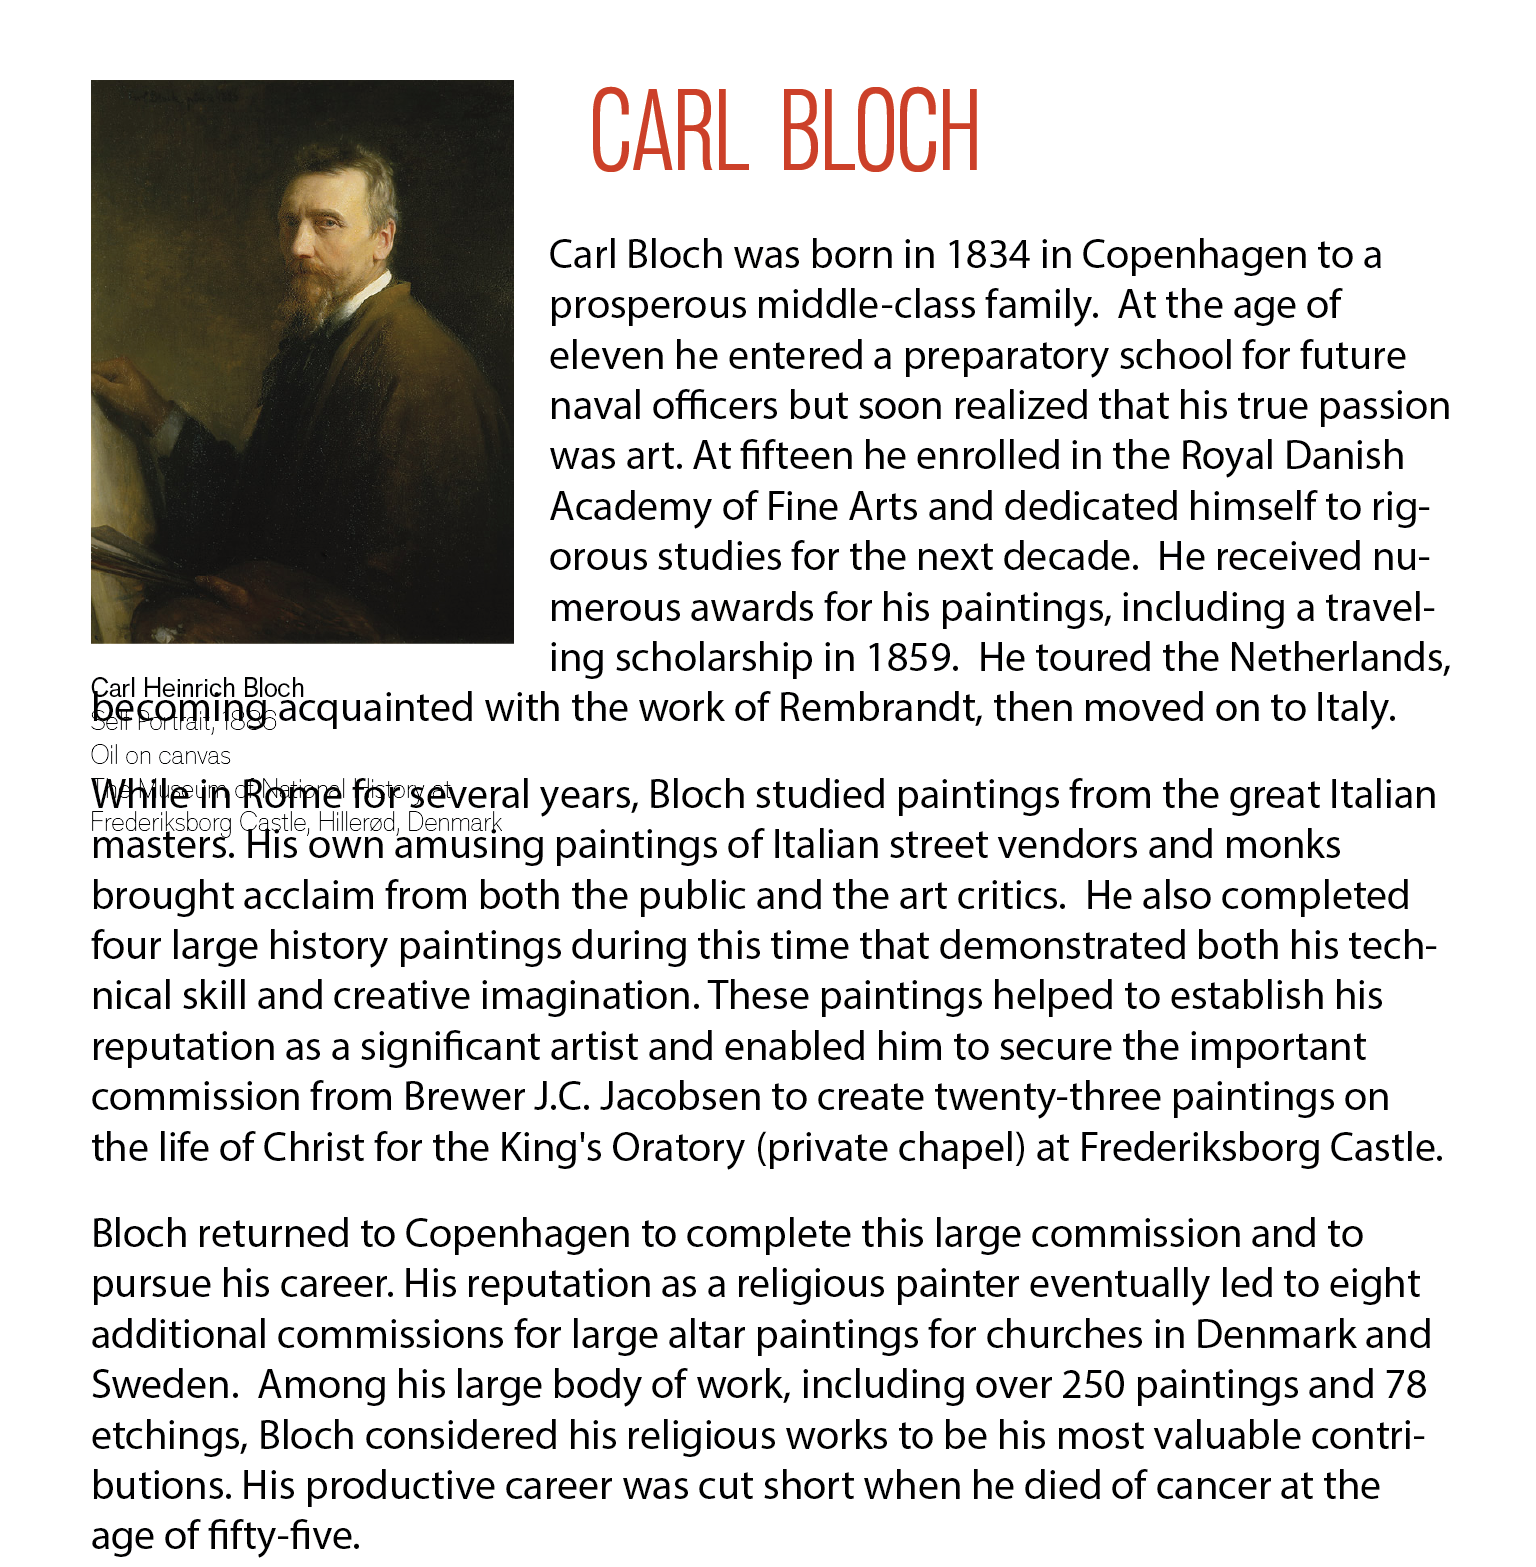
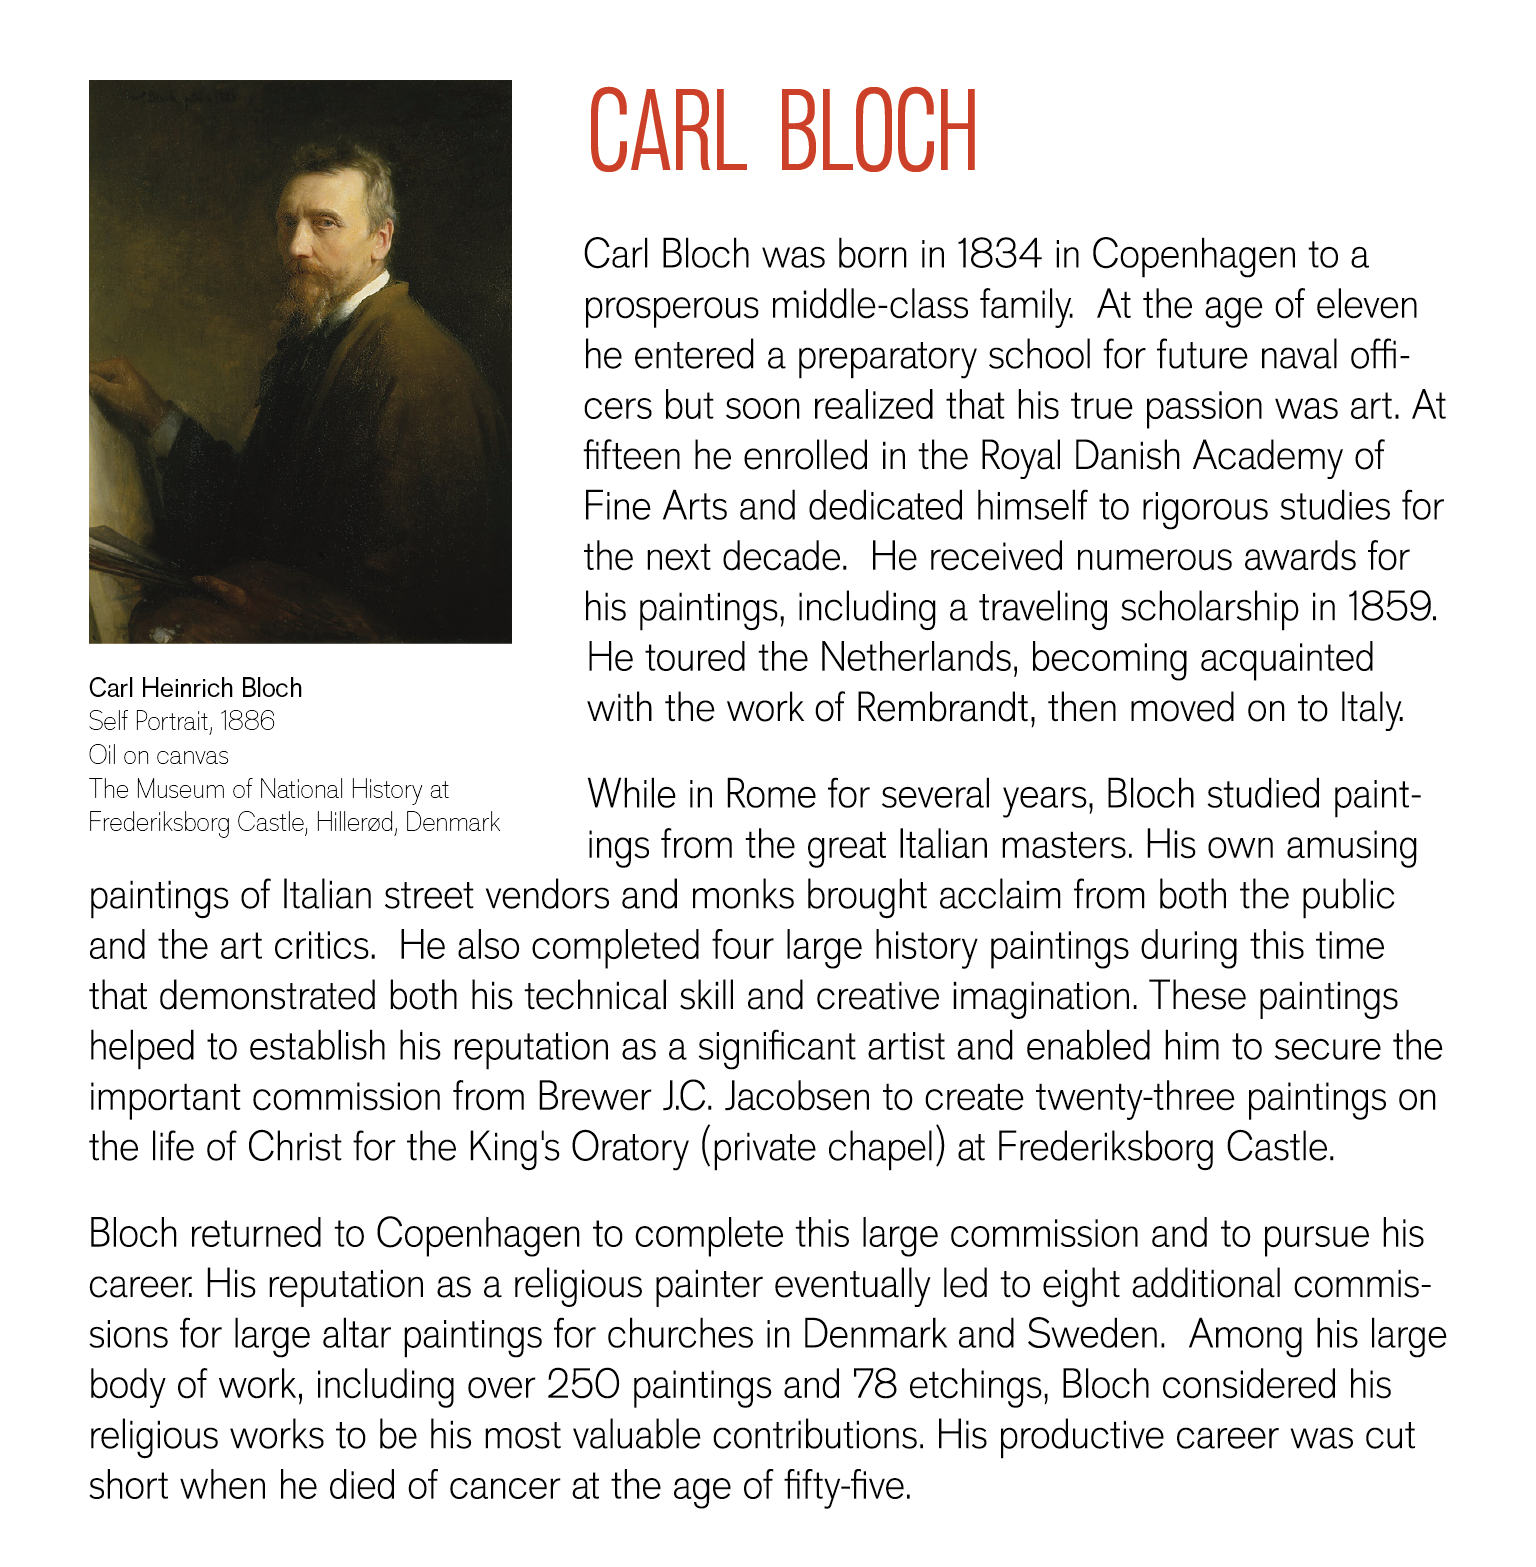
Update artist pages. Artist pages linked from FindAPainting. Footer hides on artist bio pages.

diff --git a/SacredGifts/SGNavigationContainerViewController.m b/SacredGifts/SGNavigationContainerViewController.m
@@ -140,6 +140,15 @@
     
     [self cycleFromViewController:fromController toViewController:toController fromButtonRect:frame falling:animType];
     
+    if( [toController.restorationIdentifier isEqualToString:@"artist"] )
+        [UIView animateWithDuration:0.25 animations:^{
+            self.footerView.alpha = 0;
+        }];
+    else if( [toController.restorationIdentifier isEqualToString:(NSString*)kControllerIDFindAPaintingStr] )
+        [UIView animateWithDuration:0.25 animations:^{
+            self.footerView.alpha = 1;
+        }];
+    
     return toController;
 }
 
